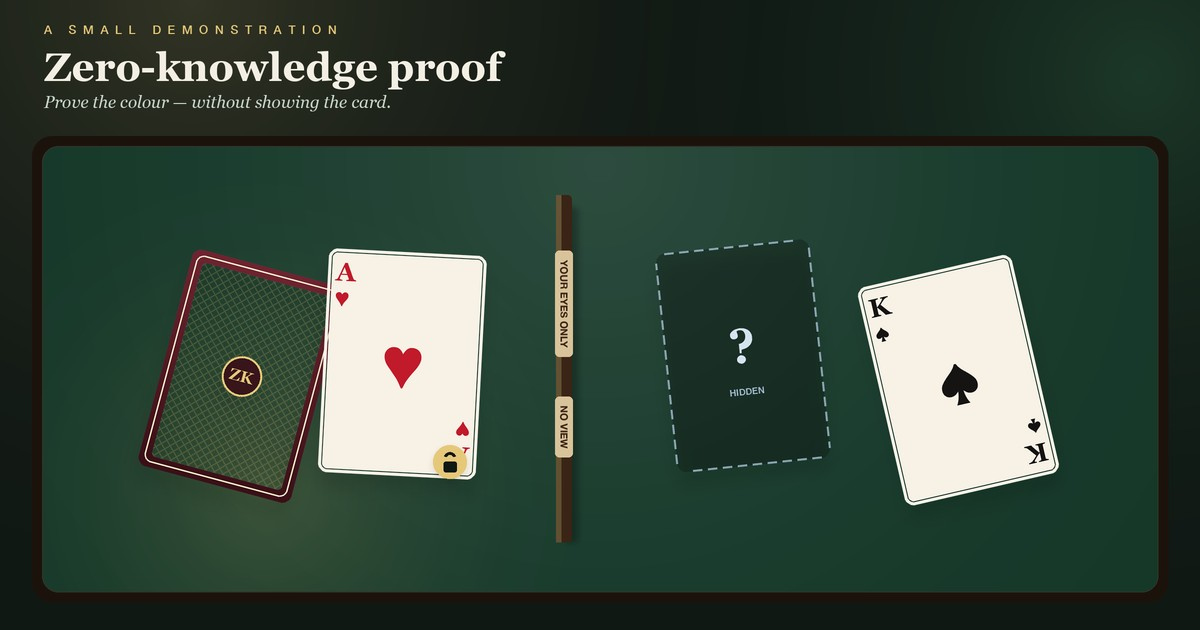
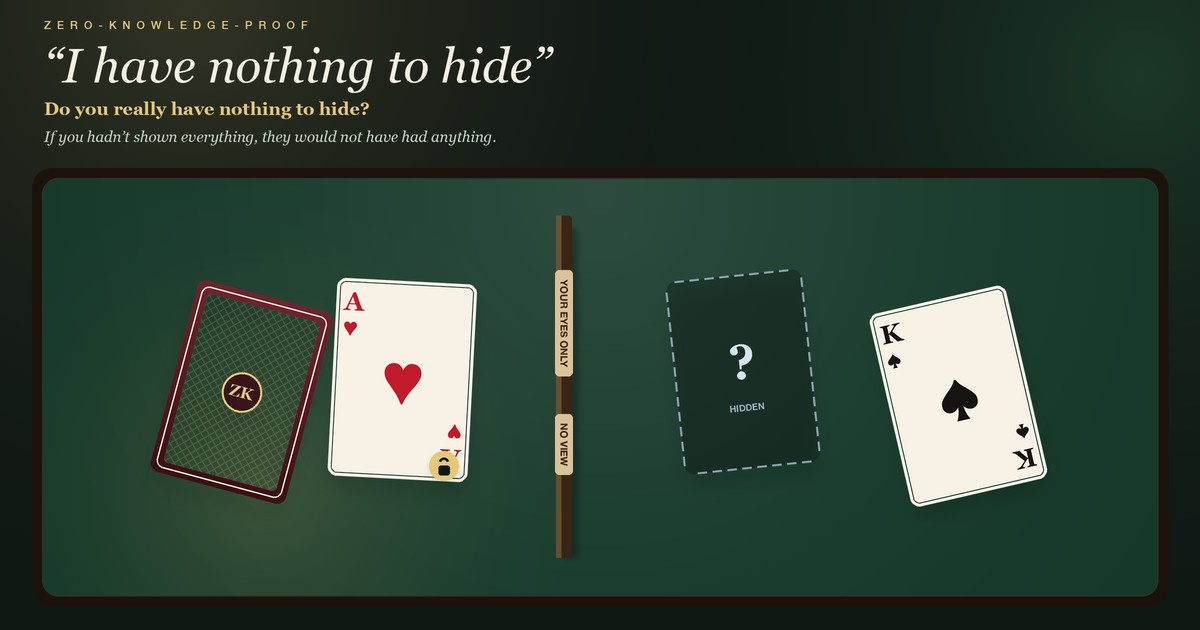
Revise title and descriptions across index.html, README.md, and package.json to emphasize the theme "I have nothing to hide" in the zero-knowledge proof demonstration. Update social media image metadata and enhance the OG image generation script for improved visual appeal. Adjust i18n messages in mu

diff --git a/src/i18n/messages.js b/src/i18n/messages.js
@@ -10,19 +10,19 @@ export const OG_LOCALES = {
 export const messages = {
   nl: {
     htmlLang: 'nl',
-    documentTitle: 'Zero-knowledge-proof (nulkennisbewijs) met speelkaarten',
+    documentTitle: '“Ik heb niks te verbergen” — Zero-knowledge-proof (nulkennisbewijs)',
     socialDescription:
-      'Bewijs welke kleur je hebt getrokken zonder de kaart te laten zien — en zonder te onthullen welke kaart van die kleur het is.',
+      '“Ik heb niks te verbergen”? Heb je dat echt? Na hacks van digitale identiteit is álles laten zien juist het risico. Als je niet alles had laten zien, hadden ze niets gehad — ontdek zero-knowledge met speelkaarten.',
     ogImageAlt:
-      'Een kaarttafel met een privéscherm: de bewijzer ziet de harten-aas, de controleur ziet alleen een verborgen kaart.',
+      '“Ik heb niks te verbergen” — heb je dat echt? Kaarttafel met privéscherm: de bewijzer ziet de harten-aas, de controleur ziet alleen een verborgen kaart.',
     language: 'Taal',
     menu: 'Menu',
     menuOpen: 'Menu openen',
     menuClose: 'Menu sluiten',
     home: 'Home',
     info: 'Info',
-    eyebrow: 'Een kleine demonstratie aan de kaarttafel',
-    title: 'Zero-knowledge-proof (nulkennisbewijs) en digitale identiteit',
+    eyebrow: 'Zero-knowledge-proof (nulkennisbewijs) en digitale identiteit',
+    title: '“Ik heb niks te verbergen”',
     ledeBefore:
       'Bewijs welke kleur je hebt getrokken zonder de kaart te laten zien — en zonder te onthullen',
     ledeEm: 'welke',
@@ -32,8 +32,8 @@ export const messages = {
     modalGotIt: 'Begrepen',
     modalStep: 'Stap {current} van {total}',
     welcome: {
-      title: 'Zero-knowledge-proof (nulkennisbewijs) en digitale identiteit',
-      nothingTitle: '“Ik heb niets te verbergen”',
+      title: '“Ik heb niks te verbergen”',
+      nothingTitle: '“Ik heb niks te verbergen”',
       nothing:
         'Een bekende zin over persoonsgegevens. Alles laten zien voelt onschuldig — tot iemand anders een kopie krijgt.',
       sureTitle: 'Heb je echt niks te verbergen?',
@@ -191,19 +191,19 @@ export const messages = {
   },
   en: {
     htmlLang: 'en',
-    documentTitle: 'Zero-Knowledge Proof with playing cards',
+    documentTitle: '“I have nothing to hide” — Zero-knowledge-proof',
     socialDescription:
-      'Prove which colour you drew without showing the card — and without revealing which card of that colour it is.',
+      '“I have nothing to hide”? Do you really? After digital-identity hacks, showing everything is the risk. If you had not shown everything, they would not have had anything — discover zero-knowledge with playing cards.',
     ogImageAlt:
-      'A card table with a privacy screen: the prover sees the ace of hearts, the verifier sees only a hidden card.',
+      '“I have nothing to hide” — do you really? A card table with a privacy screen: the prover sees the ace of hearts, the verifier sees only a hidden card.',
     language: 'Language',
     menu: 'Menu',
     menuOpen: 'Open menu',
     menuClose: 'Close menu',
     home: 'Home',
     info: 'Info',
-    eyebrow: 'A small card-table demonstration',
-    title: 'Zero-knowledge-proof and digital identity',
+    eyebrow: 'Zero-knowledge-proof and digital identity',
+    title: '“I have nothing to hide”',
     ledeBefore:
       'Prove which colour you drew without showing the card — and without revealing',
     ledeEm: 'which',
@@ -213,7 +213,7 @@ export const messages = {
     modalGotIt: 'Got it',
     modalStep: 'Step {current} of {total}',
     welcome: {
-      title: 'Zero-knowledge-proof and digital identity',
+      title: '“I have nothing to hide”',
       nothingTitle: '“I have nothing to hide”',
       nothing:
         'A familiar line about personal data. Showing everything feels harmless — until someone else gets a copy.',
@@ -373,19 +373,19 @@ export const messages = {
   },
   de: {
     htmlLang: 'de',
-    documentTitle: 'Zero-Knowledge-Beweis mit Spielkarten',
+    documentTitle: '“Ich habe nichts zu verbergen” — Zero-Knowledge-Beweis',
     socialDescription:
-      'Beweise, welche Farbe du gezogen hast, ohne die Karte zu zeigen — und ohne zu verraten, welche Karte dieser Farbe es ist.',
+      '“Ich habe nichts zu verbergen”? Wirklich? Nach Hacks digitaler Identität ist alles zu zeigen das Risiko. Hättest du nicht alles gezeigt, hätten sie nichts gehabt — entdecke Zero-Knowledge mit Spielkarten.',
     ogImageAlt:
-      'Ein Kartentisch mit Sichtschutz: Der Beweisführer sieht das Herz-Ass, der Prüfer sieht nur eine verdeckte Karte.',
+      '“Ich habe nichts zu verbergen” — wirklich? Ein Kartentisch mit Sichtschutz: Der Beweisführer sieht das Herz-Ass, der Prüfer sieht nur eine verdeckte Karte.',
     language: 'Sprache',
     menu: 'Menü',
     menuOpen: 'Menü öffnen',
     menuClose: 'Menü schließen',
     home: 'Startseite',
     info: 'Info',
-    eyebrow: 'Eine kleine Demonstration am Kartentisch',
-    title: 'Zero-Knowledge-Beweis und digitale Identität',
+    eyebrow: 'Zero-Knowledge-Beweis und digitale Identität',
+    title: '“Ich habe nichts zu verbergen”',
     ledeBefore:
       'Beweise, welche Farbe du gezogen hast, ohne die Karte zu zeigen — und ohne zu verraten,',
     ledeEm: 'welche',
@@ -395,7 +395,7 @@ export const messages = {
     modalGotIt: 'Verstanden',
     modalStep: 'Schritt {current} von {total}',
     welcome: {
-      title: 'Zero-Knowledge-Beweis und digitale Identität',
+      title: '“Ich habe nichts zu verbergen”',
       nothingTitle: '“Ich habe nichts zu verbergen”',
       nothing:
         'Ein bekannter Satz über persönliche Daten. Alles zu zeigen fühlt sich harmlos an — bis jemand anderes eine Kopie bekommt.',
@@ -555,19 +555,19 @@ export const messages = {
   },
   fr: {
     htmlLang: 'fr',
-    documentTitle: 'Preuve à divulgation nulle de connaissance avec des cartes',
+    documentTitle: '« Je n’ai rien à cacher » — Preuve à divulgation nulle',
     socialDescription:
-      'Prouvez quelle couleur vous avez tirée sans montrer la carte — et sans révéler laquelle des cartes de cette couleur c’est.',
+      '« Je n’ai rien à cacher » ? Vraiment ? Après les piratages d’identité numérique, tout montrer est le risque. Si vous n’aviez pas tout montré, ils n’auraient rien eu — découvrez la divulgation nulle avec des cartes.',
     ogImageAlt:
-      'Une table de cartes avec un paravent : le prouveur voit l’as de cœur, le vérificateur ne voit qu’une carte cachée.',
+      '« Je n’ai rien à cacher » — vraiment ? Une table de cartes avec un paravent : le prouveur voit l’as de cœur, le vérificateur ne voit qu’une carte cachée.',
     language: 'Langue',
     menu: 'Menu',
     menuOpen: 'Ouvrir le menu',
     menuClose: 'Fermer le menu',
     home: 'Accueil',
     info: 'Info',
-    eyebrow: 'Une petite démonstration à la table de cartes',
-    title: 'Preuve à divulgation nulle et identité numérique',
+    eyebrow: 'Preuve à divulgation nulle et identité numérique',
+    title: '« Je n’ai rien à cacher »',
     ledeBefore:
       'Prouvez quelle couleur vous avez tirée sans montrer la carte — et sans révéler',
     ledeEm: 'laquelle',
@@ -577,7 +577,7 @@ export const messages = {
     modalGotIt: 'Compris',
     modalStep: 'Étape {current} sur {total}',
     welcome: {
-      title: 'Preuve à divulgation nulle et identité numérique',
+      title: '« Je n’ai rien à cacher »',
       nothingTitle: '« Je n’ai rien à cacher »',
       nothing:
         'Une phrase familière sur les données personnelles. Tout montrer semble anodin — jusqu’à ce que quelqu’un d’autre en ait une copie.',

diff --git a/index.html b/index.html
@@ -4,10 +4,10 @@
     <meta charset="UTF-8" />
     <link rel="icon" type="image/svg+xml" href="/favicon.svg" />
     <meta name="viewport" content="width=device-width, initial-scale=1.0" />
-    <title>Zero-Knowledge Proof with playing cards</title>
+    <title>“I have nothing to hide” — Zero-knowledge-proof</title>
     <meta
       name="description"
-      content="Prove which colour you drew without showing the card — and without revealing which card of that colour it is."
+      content="“I have nothing to hide”? Do you really? After digital-identity hacks, showing everything is the risk. If you had not shown everything, they would not have had anything — discover zero-knowledge with playing cards."
     />
     <link rel="canonical" href="https://dwarshuis.com/various/zero-knowledge-proof/" />
 
@@ -18,36 +18,36 @@
     <meta property="og:locale:alternate" content="nl_NL" />
     <meta property="og:locale:alternate" content="de_DE" />
     <meta property="og:locale:alternate" content="fr_FR" />
-    <meta property="og:title" content="Zero-Knowledge Proof with playing cards" />
+    <meta property="og:title" content="“I have nothing to hide” — Zero-knowledge-proof" />
     <meta
       property="og:description"
-      content="Prove which colour you drew without showing the card — and without revealing which card of that colour it is."
+      content="“I have nothing to hide”? Do you really? After digital-identity hacks, showing everything is the risk. If you had not shown everything, they would not have had anything — discover zero-knowledge with playing cards."
     />
     <meta
       property="og:image"
-      content="https://dwarshuis.com/various/zero-knowledge-proof/img/social-media.jpg"
+      content="https://dwarshuis.com/various/zero-knowledge-proof/img/social-media.jpg?v=20260910"
     />
     <meta property="og:image:type" content="image/jpeg" />
     <meta property="og:image:width" content="1200" />
     <meta property="og:image:height" content="630" />
     <meta
       property="og:image:alt"
-      content="A card table with a privacy screen: the prover sees the ace of hearts, the verifier sees only a hidden card."
+      content="“I have nothing to hide” — do you really? A card table with a privacy screen: the prover sees the ace of hearts, the verifier sees only a hidden card."
     />
 
     <meta name="twitter:card" content="summary_large_image" />
-    <meta name="twitter:title" content="Zero-Knowledge Proof with playing cards" />
+    <meta name="twitter:title" content="“I have nothing to hide” — Zero-knowledge-proof" />
     <meta
       name="twitter:description"
-      content="Prove which colour you drew without showing the card — and without revealing which card of that colour it is."
+      content="“I have nothing to hide”? Do you really? After digital-identity hacks, showing everything is the risk. If you had not shown everything, they would not have had anything — discover zero-knowledge with playing cards."
     />
     <meta
       name="twitter:image"
-      content="https://dwarshuis.com/various/zero-knowledge-proof/img/social-media.jpg"
+      content="https://dwarshuis.com/various/zero-knowledge-proof/img/social-media.jpg?v=20260910"
     />
     <meta
       name="twitter:image:alt"
-      content="A card table with a privacy screen: the prover sees the ace of hearts, the verifier sees only a hidden card."
+      content="“I have nothing to hide” — do you really? A card table with a privacy screen: the prover sees the ace of hearts, the verifier sees only a hidden card."
     />
     <!-- Google tag (gtag.js) -->
     <script async src="https://www.googletagmanager.com/gtag/js?id=G-KTZ85K7JTZ"></script>

diff --git a/src/App.vue b/src/App.vue
@@ -520,6 +520,7 @@ onUnmounted(() => {
     <header class="top">
       <div class="title-row">
         <div class="brand">
+          <p class="eyebrow">{{ t('eyebrow') }}</p>
           <h1>{{ t('title') }}</h1>
           <ol class="progress" :aria-label="t('stepsLabel')">
             <li
@@ -864,6 +865,11 @@ h1 {
   color: var(--cream);
   letter-spacing: -0.03em;
   line-height: 1.15;
+  font-style: italic;
+}
+
+.brand .eyebrow {
+  margin-bottom: 6px;
 }
 
 .progress {

diff --git a/scripts/generate-og-image.py b/scripts/generate-og-image.py
@@ -282,15 +282,29 @@ def main():
     canvas = radial_glow(canvas, int(W * 0.95), int(H * 0.12), int(W * 0.48), (46, 107, 72, 255), 0.38)
 
     draw = ImageDraw.Draw(canvas)
-    eyebrow = fnt(HELV, 12, index=10)
-    title = fnt(GEORGIA_BOLD, 40)
-    lede = fnt(GEORGIA_ITALIC, 17)
+    eyebrow = fnt(HELV, 11, index=10)
+    title = fnt(GEORGIA_ITALIC, 48)
+    lede = fnt(GEORGIA_BOLD, 18)
+    detail = fnt(GEORGIA_ITALIC, 15)
 
-    draw.text((44 * SCALE, 22 * SCALE), spaced("A SMALL DEMONSTRATION"), font=eyebrow, fill=BRASS)
-    draw.text((44 * SCALE, 44 * SCALE), "Zero-knowledge-proof", font=title, fill=CREAM)
-    draw.text((44 * SCALE, 92 * SCALE), "Prove the colour — without showing the card.", font=lede, fill=MUTED)
+    # Hero hook first; ZKP is secondary branding.
+    draw.text((44 * SCALE, 18 * SCALE), spaced("ZERO-KNOWLEDGE-PROOF"), font=eyebrow, fill=BRASS)
+    draw.text((44 * SCALE, 38 * SCALE), "“I have nothing to hide”", font=title, fill=CREAM)
+    draw.text(
+        (44 * SCALE, 98 * SCALE),
+        "Do you really have nothing to hide?",
+        font=lede,
+        fill=BRASS,
+    )
+    draw.text(
+        (44 * SCALE, 128 * SCALE),
+        "If you hadn’t shown everything, they would not have had anything.",
+        font=detail,
+        fill=MUTED,
+    )
 
-    felt_box = (32 * SCALE, 136 * SCALE, W - 32 * SCALE, H - 28 * SCALE)
+    # Slightly lower felt so the quote block has more room.
+    felt_box = (32 * SCALE, 168 * SCALE, W - 32 * SCALE, H - 24 * SCALE)
     rail = Image.new("RGBA", (W, H), (0, 0, 0, 0))
     ImageDraw.Draw(rail).rounded_rectangle(felt_box, 20 * SCALE, fill=(28, 18, 12, 255))
     canvas.alpha_composite(rail)
@@ -309,17 +323,17 @@ def main():
     canvas.alpha_composite(felt)
     ImageDraw.Draw(canvas).rounded_rectangle(inner, 16 * SCALE, outline=(255, 220, 160, 36), width=SCALE)
 
-    cw, ch = 158 * SCALE, 224 * SCALE
+    cw, ch = 140 * SCALE, 198 * SCALE
     hearts = make_card(cw, ch, True, "A", "♥", RED)
     spades = make_card(cw, ch, True, "K", "♠", BLACK)
     back = make_card(cw, ch, False)
     mystery = make_mystery(cw, ch)
 
-    table_cy = int((inner[1] + inner[3]) / 2 + 6 * SCALE)
+    table_cy = int((inner[1] + inner[3]) / 2 + 4 * SCALE)
     paste_rotated(canvas, back, int(W * 0.20), table_cy + 8 * SCALE, -15)
     paste_rotated(canvas, hearts, int(W * 0.335), table_cy - 4 * SCALE, -3)
 
-    screen_h = int((inner[3] - inner[1]) * 0.78)
+    screen_h = int((inner[3] - inner[1]) * 0.82)
     screen = make_privacy_screen(screen_h)
     sx = int(W * 0.47 - screen.width / 2)
     sy = int(inner[1] + (inner[3] - inner[1] - screen_h) / 2)
@@ -346,11 +360,11 @@ def main():
     paste_rotated(canvas, mystery, int(W * 0.62), table_cy - 12 * SCALE, 6)
     paste_rotated(canvas, spades, int(W * 0.80), table_cy + 12 * SCALE, 13)
 
-    lock = badge_with_lock(34 * SCALE)
+    lock = badge_with_lock(30 * SCALE)
     lock_on = drop_shadow(lock, blur=6, offset=(0, 3), opacity=80)
     canvas.alpha_composite(
         lock_on,
-        (int(W * 0.335 + 48 * SCALE - lock_on.width / 2), int(table_cy + 58 * SCALE)),
+        (int(W * 0.335 + 42 * SCALE - lock_on.width / 2), int(table_cy + 48 * SCALE)),
     )
 
     OUT.parent.mkdir(parents=True, exist_ok=True)

diff --git a/README.md b/README.md
@@ -1,6 +1,6 @@
-# Zero-Knowledge Proof with playing cards
+# “I have nothing to hide” — Zero-knowledge-proof
 
-An interactive Vue.js demonstration of a simplified zero-knowledge-proof, using a tiny deck of four red cards and four black cards. Available in Dutch and English.
+An interactive Vue.js demonstration that starts from the familiar line “I have nothing to hide”, then shows why showing less matters — with a simplified zero-knowledge-proof using four red cards and four black cards. Available in Dutch, English, German, and French.
 
 You are **the prover**. You draw a random card that only you can see. Then you convince **the verifier** of the card's colour — without showing it, and without revealing which card of that colour it is. You can also try to cheat, to see that a false claim fails.
 
